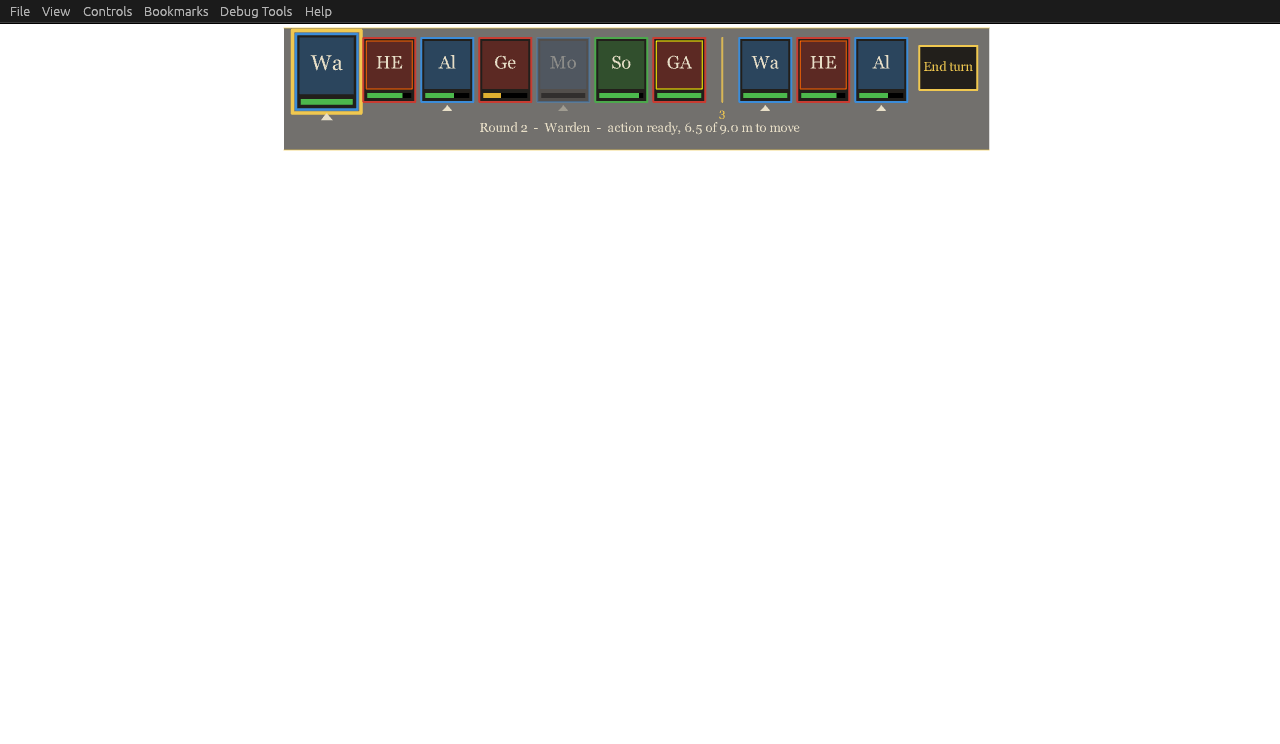
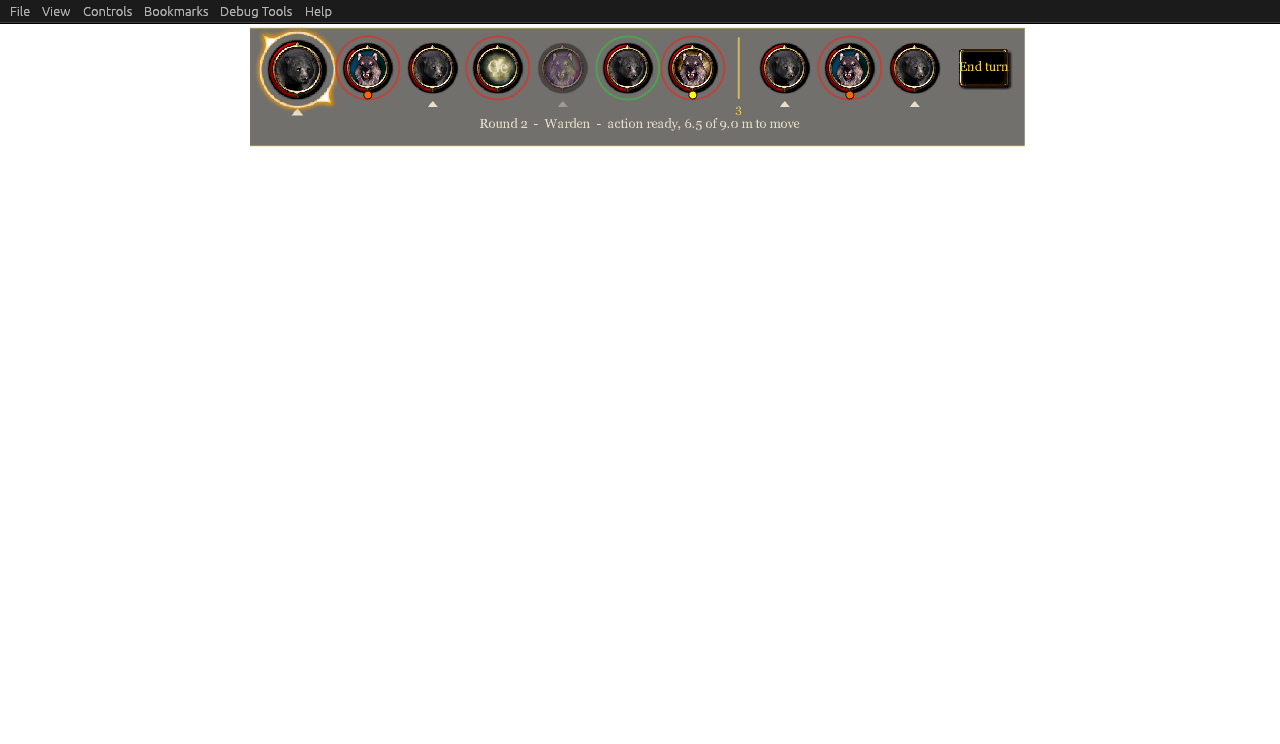
The turn bar's cards are the party bar's medallions
The user asked for the game's own portrait backgrounds and frames in place
of drawn boxes. Every card is now the party bar's stack, by the textures'
names through img:// (portraits.gfx, read 2026-09-30): the backplate, a
painted background orb (a party member's by its PortraitTint, an enemy's
one of the twenty, fixed by its id), the portrait masked round, the red
health arc filled to the health left, the gold ring, and for the current
turn the party bar's glow. Enemies and allies keep a rim of their side's
colour, bosses a gem of their rank's. End turn stands on the game's popup
panel. tools/snapshot.ps1 lets Ruffle read the art extracted to PNGs, so
the preview shows the real look.

Claude-Session: https://claude.ai/code/session_01SHrV5jHcG2TiBdHZ1wfhrC

Changed region(s): [[0.1875, 0.0309, 0.8125, 0.2164]]

diff --git a/dev/UI.md b/dev/UI.md
@@ -74,6 +74,20 @@ What the movie needs from the plugin:
 3. A portrait per card: built, the party's from the game's data tree or the engine, everyone else's rendered by the engine (above).
 4. Its clicks heard: built (below).
 
+### The cards: the party bar's medallions (2026-09-30)
+
+The user asked for the game's own portrait backgrounds and skeuomorphic frames in place of drawn boxes. The research (`build/research/portrait_art/README.md`, not in the repository) found every picture in the game's movies is an atlas texture named by a `DefineExternalImage`, which `img://<name>.dds` draws by name (the image loader looks names up in the UI atlases first, 0x516A20). So each card is the party bar's own stack (`portraits.gfx`, `Portrait1_mc`), scaled from 114 px to 60:
+
+- the backplate, `Portraits_IC2`;
+- a painted background orb, one of the twenty frames of the party bar's `Portrait2_back` (`levelUp_I158` and every third texture after, patch003's names). A party member's is its `PortraitProperties.PortraitTint` from the data tree (the portraits table's, by tag: Alistair 17, the dog 18, Morrigan 16); an enemy's or ally's is one of the twenty, fixed by its id;
+- the portrait, masked round;
+- the red health arc, `Portraits_I41`, filled from the foot to the share of health left;
+- the gold ring, `Portraits_I3C`;
+- for the current turn, the party bar's glow ring, `Portraits_I60`, behind, and the card larger;
+- a rim of the side's colour outside the gold for enemies and allies, and a gem of the rank's colour for lieutenants and bosses.
+
+End turn stands on the game's popups' gold-edged panel, `PopupLayer_I70`. Outside the game the movie loads the same art from the research's PNGs, so `tools/snapshot.ps1` shows the real look (the portraits in the sample are two of the game's summon portraits).
+
 ### The protocol, built 2026-09-30
 
 The movie pulls; the plugin never calls into it. A movie's calls come on its own thread, which may not be the scripts', and pulling makes that not matter: the handlers only read what the frame callback last published, and leave requests for it (`src/game/Bar.h`). They are installed with `[feedback] turn_bar = true`, off until there is a movie.
